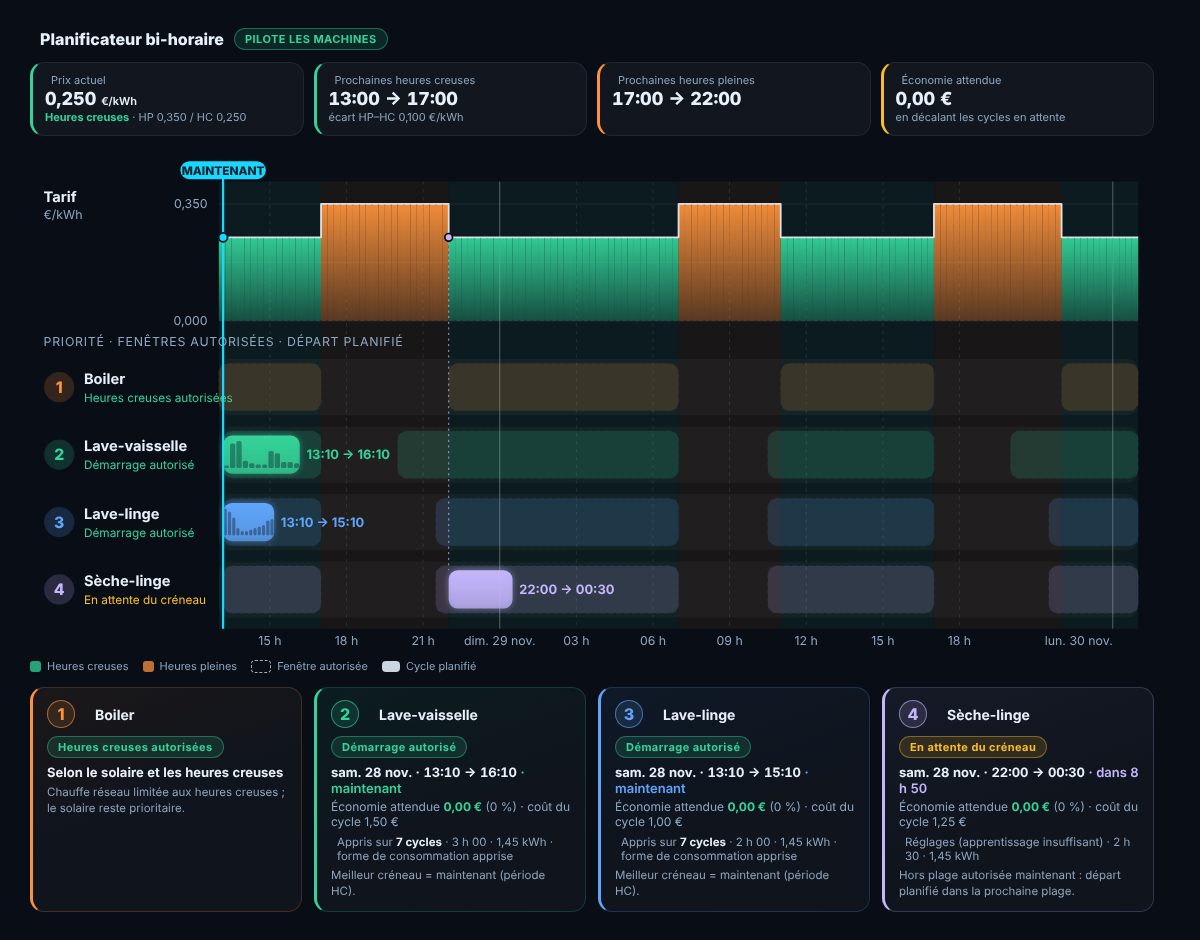
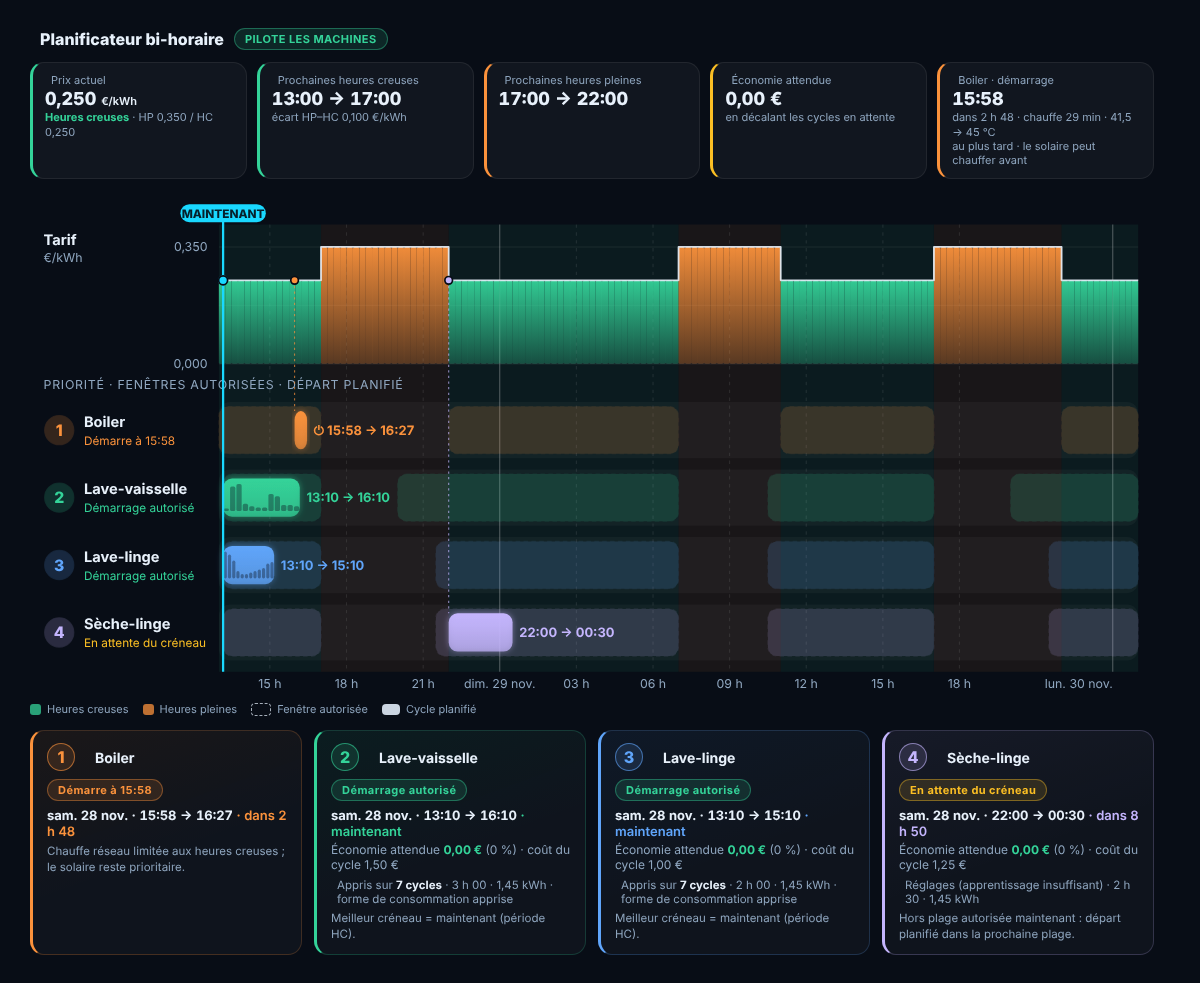
Planificateur : heure de démarrage du boiler (règle HC reproduite), tuile et libellés dans la vue
Claude-Session: https://claude.ai/code/session_01JZbpaVk4qVK5BhL6Fav4kt

diff --git a/custom_components/foxcat_energy/domain/pricing/boiler_plan.py b/custom_components/foxcat_energy/domain/pricing/boiler_plan.py
@@ -1,0 +1,120 @@
+"""Démarrage prévu du boiler en heures creuses (bi-horaire), pour la vue du planificateur.
+
+Logique pure, qui **reproduit** la règle réelle du boiler (``domain/engine/modes/eco.py`` et
+``common.ecs_last_departure``) sans la remplacer :
+
+* en heures creuses, la chauffe réseau n'est autorisée que si l'eau est sous le seuil de démarrage
+  (``boiler_temp_start_c``, 43 °C) ;
+* avec l'option « attendre le dernier failback » (active par défaut), elle ne démarre qu'au **dernier
+  moment** qui permet encore d'atteindre la température normale (45 °C) avant la fin des heures creuses,
+  moins la marge de sécurité, pour laisser sa chance au solaire ;
+* le solaire peut toujours chauffer plus tôt : l'heure rendue est donc « au plus tard ».
+
+L'eau est supposée refroidir à ``boiler_cool_rate_c_per_h`` tant qu'on ne chauffe pas.
+"""
+from __future__ import annotations
+
+from typing import Any
+
+from ..engine.modes.common import cool_rate_c_per_h, heat_rate_c_per_h
+
+HORIZON_S = 36 * 3600
+
+
+def _num(settings: dict[str, Any], key: str, default: float) -> float:
+    try:
+        return float(settings.get(key, default))
+    except (TypeError, ValueError):
+        return default
+
+
+def _heating_minutes(temp_at_end_c: float, normal_c: float, heat_rate: float) -> float:
+    return max(0.0, (normal_c - temp_at_end_c) / heat_rate * 60.0)
+
+
+def plan_boiler_hc(
+    *,
+    now_ts: int,
+    settings: dict[str, Any],
+    temp_c: float | None,
+    boiler_on: bool,
+    hc_windows: list[tuple[int, int]],
+    mode: str | None = None,
+) -> dict[str, Any]:
+    """Statut et heure de démarrage prévue du boiler sur les heures creuses."""
+    start_c = _num(settings, "boiler_temp_start_c", 43.0)
+    normal_c = _num(settings, "boiler_temp_normal_c", 45.0)
+    margin_s = max(_num(settings, "boiler_failback_margin_min", 30.0), 0.0) * 60.0
+    heat = heat_rate_c_per_h(settings)
+    cool = cool_rate_c_per_h(settings)
+    wait_failback = bool(settings.get("boiler_hc_wait_failback", True))
+    base = {
+        "start_ts": None, "end_ts": None, "heating_min": None, "temp_c": temp_c,
+        "start_temp_c": start_c, "target_c": normal_c,
+        "window_start_ts": None, "window_end_ts": None, "failback": wait_failback,
+    }
+
+    if mode == "Manuel":
+        return base | {"status": "MANUEL", "reason": "Mode Manuel : FoxCat ne commande pas le boiler."}
+    if not settings.get("boiler_enabled", True):
+        return base | {"status": "DESACTIVE", "reason": "Boiler non géré par FoxCat."}
+    if temp_c is None:
+        return base | {"status": "SONDE_INDISPONIBLE", "reason": "Température du boiler illisible : aucune chauffe prévue."}
+    if not settings.get("boiler_allow_hc", True):
+        return base | {"status": "HC_DESACTIVE", "reason": "Chauffe réseau en heures creuses désactivée : solaire seulement."}
+
+    if boiler_on and temp_c < normal_c:
+        minutes = _heating_minutes(temp_c, normal_c, heat) if heat else 0.0
+        return base | {
+            "status": "EN_COURS", "start_ts": now_ts, "end_ts": int(now_ts + minutes * 60), "heating_min": round(minutes),
+            "reason": f"Chauffe en cours : {temp_c:.1f} °C vers {normal_c:.1f} °C.",
+        }
+
+    # Instant où l'eau passe sous le seuil de démarrage (si elle refroidit).
+    if temp_c < start_c:
+        cross = now_ts
+    elif cool > 0:
+        cross = now_ts + int((temp_c - start_c) / cool * 3600)
+    else:
+        cross = None
+    if cross is None or cross > now_ts + HORIZON_S:
+        return base | {
+            "status": "AUCUN_BESOIN",
+            "reason": f"Eau à {temp_c:.1f} °C, au-dessus du seuil de démarrage ({start_c:.0f} °C) : pas de chauffe réseau prévue.",
+        }
+
+    def temp_at(t: int) -> float:
+        return temp_c - cool * max(t - now_ts, 0) / 3600.0
+
+    for ws, we in sorted(hc_windows):
+        if we <= now_ts or we <= cross:
+            continue
+        t_in = max(ws, now_ts, cross)
+        if not wait_failback:
+            start = t_in
+        else:
+            start = None
+            t = t_in
+            while t <= we:
+                projected_end = temp_at(t) - cool * (we - t) / 3600.0
+                minutes = _heating_minutes(projected_end, normal_c, heat)
+                if we - t - minutes * 60.0 - margin_s <= 0:
+                    start = t
+                    break
+                t += 60
+            if start is None:
+                start = we
+        minutes = _heating_minutes(temp_at(start), normal_c, heat)
+        end = min(int(start + minutes * 60), we)
+        immediate = start <= now_ts + 60
+        return base | {
+            "status": "MAINTENANT" if immediate else "PROGRAMME",
+            "start_ts": int(start), "end_ts": int(end), "heating_min": round(minutes),
+            "window_start_ts": int(ws), "window_end_ts": int(we),
+            "reason": (
+                f"Chauffe réseau {'immédiate' if immediate else 'au plus tard à l’heure indiquée'} : "
+                f"{temp_at(start):.1f} → {normal_c:.1f} °C en {round(minutes)} min "
+                f"(fin des heures creuses, marge {round(margin_s / 60)} min). Le solaire peut chauffer avant."
+            ),
+        }
+    return base | {"status": "AUCUNE_HC", "reason": "Aucune heure creuse exploitable sur l'horizon."}

diff --git a/tests/test_boiler_plan.py b/tests/test_boiler_plan.py
@@ -1,0 +1,99 @@
+"""Démarrage prévu du boiler en heures creuses : reproduit la règle réelle du boiler."""
+from __future__ import annotations
+
+import sys
+import types
+import unittest
+from datetime import datetime, timedelta, timezone
+from pathlib import Path
+
+COMPONENT = Path(__file__).resolve().parents[1] / "custom_components" / "foxcat_energy"
+package = types.ModuleType("foxcat_energy")
+package.__path__ = [str(COMPONENT)]
+sys.modules.setdefault("foxcat_energy", package)
+
+from foxcat_energy.const import DEFAULT_SETTINGS  # noqa: E402
+from foxcat_energy.domain.pricing.boiler_plan import plan_boiler_hc  # noqa: E402
+from foxcat_energy.domain.pricing.dynamic_planner import boiler_lane  # noqa: E402
+
+UTC = timezone.utc
+DAY = datetime(2026, 11, 28, 0, 0, tzinfo=UTC)
+SETTINGS = dict(DEFAULT_SETTINGS)
+
+
+def ts(hour, minute=0, day=0):
+    return int((DAY + timedelta(days=day, hours=hour, minutes=minute)).timestamp())
+
+
+# HC : nuit 22 h → 07 h, midi 11 h → 17 h (HP 07-11 et 17-22).
+HC = [(ts(-2), ts(7)), (ts(11), ts(17)), (ts(22), ts(7, day=1)), (ts(11, day=1), ts(17, day=1))]
+
+
+def plan(now, temp, **kw):
+    args = dict(now_ts=now, settings=SETTINGS, temp_c=temp, boiler_on=False, hc_windows=HC, mode="Éco")
+    args.update(kw)
+    return plan_boiler_hc(**args)
+
+
+class BoilerHcPlanTests(unittest.TestCase):
+    def test_cold_water_waits_for_the_last_failback_of_the_window(self):
+        result = plan(ts(5), 40.0)
+        self.assertEqual(result["status"], "PROGRAMME")
+        window_end = ts(7)
+        heating_s = result["heating_min"] * 60
+        # démarre au plus tard : durée de chauffe + marge de 30 min avant la fin des HC
+        self.assertAlmostEqual(result["start_ts"], window_end - heating_s - 30 * 60, delta=180)
+        self.assertGreater(result["start_ts"], ts(5))
+        self.assertLessEqual(result["end_ts"], window_end)
+
+    def test_failback_already_reached_starts_now(self):
+        result = plan(ts(6, 20), 38.0)
+        self.assertEqual(result["status"], "MAINTENANT")
+        self.assertLessEqual(result["start_ts"], ts(6, 20) + 60)
+
+    def test_without_waiting_option_it_starts_when_hc_open(self):
+        result = plan(ts(5), 40.0, settings=dict(SETTINGS, boiler_hc_wait_failback=False))
+        self.assertEqual(result["status"], "MAINTENANT")
+
+    def test_warm_water_starts_only_after_it_cools_below_threshold(self):
+        # 50 °C, refroidissement 0,5 °C/h : passe sous 43 °C vers 19 h → première HC exploitable = nuit 22 h
+        result = plan(ts(5), 50.0)
+        self.assertEqual(result["status"], "PROGRAMME")
+        self.assertGreaterEqual(result["start_ts"], ts(22))
+        self.assertLess(result["start_ts"], ts(7, day=1))
+
+    def test_very_hot_water_needs_no_grid_heating(self):
+        result = plan(ts(5), 62.0)
+        self.assertEqual(result["status"], "AUCUN_BESOIN")
+        self.assertIsNone(result["start_ts"])
+
+    def test_heating_in_progress(self):
+        result = plan(ts(5), 40.0, boiler_on=True)
+        self.assertEqual(result["status"], "EN_COURS")
+
+    def test_hc_disabled_manual_and_sensor_missing(self):
+        self.assertEqual(plan(ts(5), 40.0, settings=dict(SETTINGS, boiler_allow_hc=False))["status"], "HC_DESACTIVE")
+        self.assertEqual(plan(ts(5), 40.0, mode="Manuel")["status"], "MANUEL")
+        self.assertEqual(plan(ts(5), None)["status"], "SONDE_INDISPONIBLE")
+        self.assertEqual(plan(ts(5), 40.0, settings=dict(SETTINGS, boiler_enabled=False))["status"], "DESACTIVE")
+
+    def test_lane_carries_schedule(self):
+        schedule = plan(ts(5), 40.0)
+        lane = boiler_lane(None, [[ts(-2), ts(7)]], source="HEURES_CREUSES", schedule=schedule)
+        self.assertEqual(lane["start_ts"], schedule["start_ts"])
+        self.assertEqual(lane["status"], "PROGRAMME")
+        self.assertEqual(lane["segments"], [[schedule["start_ts"], schedule["end_ts"]]])
+        self.assertEqual(lane["priority_rank"], 1)
+
+    def test_lane_from_flexible_planner_segments(self):
+        lane = boiler_lane(
+            {"decision": "WAIT", "segments": [{"start": "2026-11-28T01:00:00+00:00", "end": "2026-11-28T02:00:00+00:00"}]},
+            None, source="PLANIFICATEUR_CHARGES", heating_min=50,
+        )
+        self.assertEqual(lane["status"], "PROGRAMME")
+        self.assertEqual(lane["start_ts"], ts(1))
+        self.assertEqual(lane["heating_min"], 50)
+
+
+if __name__ == "__main__":
+    unittest.main()

diff --git a/custom_components/foxcat_energy/domain/pricing/dynamic_planner.py b/custom_components/foxcat_energy/domain/pricing/dynamic_planner.py
@@ -348,11 +348,14 @@ def boiler_lane(
     windows: list[list[int]] | None = None,
     *,
     source: str,
+    schedule: dict[str, Any] | None = None,
+    heating_min: float | None = None,
 ) -> dict[str, Any]:
-    """Couloir du boiler (rang 1) pour la vue : informatif, la décision reste celle du boiler dynamique.
+    """Couloir du boiler (rang 1) pour la vue : informatif, la décision reste celle du boiler.
 
-    ``windows`` : plages où la chauffe est permise (``None`` = à toute heure). Les segments viennent du
-    planificateur de charges flexibles (créneaux les moins chers) quand il en fournit.
+    ``windows`` : plages où la chauffe est permise (``None`` = à toute heure). ``schedule`` : démarrage
+    prévu calculé par ``boiler_plan.plan_boiler_hc`` (bi-horaire). Sans lui, les segments viennent du
+    planificateur de charges flexibles (créneaux les moins chers) et le premier donne l'heure de départ.
     """
     plan = boiler_plan or {}
     segments = []
@@ -364,7 +367,7 @@ def boiler_lane(
             ])
         except (KeyError, TypeError, ValueError):
             continue
-    return {
+    lane: dict[str, Any] = {
         "name": "Boiler",
         "priority_rank": 1,
         "decision": plan.get("decision"),
@@ -372,7 +375,24 @@ def boiler_lane(
         "windows": windows,
         "segments": segments,
         "source": source,
+        "status": None,
+        "start_ts": None,
+        "end_ts": None,
+        "heating_min": heating_min,
     }
+    if schedule:
+        lane.update(
+            status=schedule.get("status"), reason=schedule.get("reason"), start_ts=schedule.get("start_ts"),
+            end_ts=schedule.get("end_ts"), heating_min=schedule.get("heating_min"), temp_c=schedule.get("temp_c"),
+            target_c=schedule.get("target_c"), start_temp_c=schedule.get("start_temp_c"),
+        )
+        lane["segments"] = (
+            [[schedule["start_ts"], schedule["end_ts"]]] if schedule.get("start_ts") and schedule.get("end_ts") else []
+        )
+    elif segments:
+        lane.update(status="PROGRAMME" if plan.get("decision") != "START_NOW" else "MAINTENANT",
+                    start_ts=segments[0][0], end_ts=segments[-1][1])
+    return lane
 
 
 def _machine_entry(machine: MachineDefinition, decision: str, allow: bool, reason: str, **extra: Any) -> dict[str, Any]:

diff --git a/custom_components/foxcat_energy/runtime/coordinator.py b/custom_components/foxcat_energy/runtime/coordinator.py
@@ -216,6 +216,7 @@ from ..domain.pricing import price_buffer
 from ..domain.loads.flexible_load_planner import build_flexible_load_plan
 from ..domain.pricing.dynamic_planner import boiler_lane, build_dynamic_plan
 from ..domain.pricing.bihoraire_planner import build_bihoraire_plan
+from ..domain.pricing.boiler_plan import plan_boiler_hc
 from ..trading.vpp import evaluate_trade, evaluate_v2h
 from ..dashboard.dashboard import cached_dashboard_status, refresh_dashboard_cache
 
@@ -2307,7 +2308,10 @@ class FoxCatEnergyCoordinator(DataUpdateCoordinator[dict[str, Any]]):
             tomorrow_available=tomorrow_available,
         )
         if dynamic_plan.get("ready"):
-            dynamic_plan["boiler"] = boiler_lane(planner.get("boiler"), None, source="PLANIFICATEUR_CHARGES")
+            dynamic_plan["boiler"] = boiler_lane(
+                planner.get("boiler"), None, source="PLANIFICATEUR_CHARGES",
+                heating_min=(boiler_thermal or {}).get("heating_duration_h") and round(float(boiler_thermal["heating_duration_h"]) * 60),
+            )
         dynamic_plan["pilot"] = bool(
             dynamic_plan.get("active")
             and dynamic_plan.get("ready")
@@ -2344,7 +2348,18 @@ class FoxCatEnergyCoordinator(DataUpdateCoordinator[dict[str, Any]]):
                 if self.settings.get("boiler_allow_hc", True)
                 else []
             )
-            bihoraire_plan["boiler"] = boiler_lane(None, hc_windows, source="HEURES_CREUSES")
+            hc_ranges = [
+                (int(p["start_ts"]), int(p["end_ts"])) for p in bihoraire_plan.get("periods", []) if p["period"] == "HC"
+            ]
+            boiler_schedule = plan_boiler_hc(
+                now_ts=int(now.timestamp()),
+                settings=self.settings,
+                temp_c=snap.boiler_temp_c if getattr(snap, "boiler_temp_c", None) is not None else None,
+                boiler_on=bool(snap.boiler_on),
+                hc_windows=hc_ranges,
+                mode=str(self.settings.get("mode")),
+            )
+            bihoraire_plan["boiler"] = boiler_lane(None, hc_windows, source="HEURES_CREUSES", schedule=boiler_schedule)
         bihoraire_plan["pilot"] = bool(
             bihoraire_plan.get("ready")
             and str(self.settings.get("mode")) != MODE_MANUAL

diff --git a/CHANGELOG.md b/CHANGELOG.md
@@ -2,6 +2,8 @@
 
 ## Non publié
 
+- **Planificateur : démarrage du boiler visible.** Nouveau module `domain/pricing/boiler_plan.py` (`plan_boiler_hc`) qui **reproduit la règle réelle du boiler en heures creuses** sans la remplacer : chauffe réseau seulement si l'eau est sous le seuil de démarrage (43 °C), au **dernier failback** (fin des HC moins la durée de chauffe et la marge de 30 min) quand « Boiler : attendre le dernier failback en HC » est actif, immédiatement sinon ; l'eau est supposée refroidir à la vitesse réglée. Statuts : `PROGRAMME` (heure de démarrage « au plus tard »), `MAINTENANT`, `EN_COURS`, `AUCUN_BESOIN` (eau assez chaude), `HC_DESACTIVE`, `MANUEL`, `DESACTIVE`, `SONDE_INDISPONIBLE`, `AUCUNE_HC`. Le solaire peut toujours chauffer plus tôt. Le couloir `boiler` des deux planificateurs expose `status`, `start_ts`, `end_ts`, `heating_min`, `temp_c`, `target_c` ; en dynamique, le départ vient du premier créneau retenu par le planificateur de charges (indicatif). La vue affiche une tuile « Boiler · démarrage » (heure, compte à rebours, durée, température), la barre du boiler préfixée ⏻ et le libellé « Démarre à HH:MM ». Tests : `tests/test_boiler_plan.py`. Vérifié par tests unitaires, **pas dans Home Assistant**.
+
 - **Vue Planificateur : visuel amélioré** (dashboards tablette et mobile 1.9.0). Tuiles d'indicateurs à liseré coloré avec icônes ; courbe de tarif en barres à dégradé, repères de prix à trois niveaux, étiquettes **▼ prix minimum / ▲ prix maximum** avec leur heure (dynamique, tablette) ; **info-bulle** au survol de chaque créneau (heure, prix, bande) et de chaque cycle (heures, durée) ; barres de cycle à dégradé avec halo et durée affichée ; **connecteur pointillé** reliant le départ de chaque cycle au prix de la courbe à cet instant ; point pulsant sur la courbe à l'heure actuelle ; cartes par appareil avec liseré, dégradé et **compte à rebours** (« dans 10 h 50 », « maintenant », « cycle en cours »). Sur téléphone, les repères min/max sont masqués et l'axe n'affiche que minuit et midi pour rester lisible. Le code est le même dans `dashboard_v1.9.0.yaml` et `dashboard_mobile_v1.9.0.yaml` (une version déjà installée garde l'ancien visuel tant qu'on ne la régénère pas). Aperçus mis à jour dans `docs/PREVIEW_PLANIFICATEUR_*.png` ; rendu vérifié dans un navigateur de test, **pas dans Home Assistant**.
 
 ## V1.7.701

diff --git a/docs/algorithmes/07_machines_planificateur.md b/docs/algorithmes/07_machines_planificateur.md
@@ -151,6 +151,8 @@ Calculé à chaque trame en **tarif dynamique** ; sans l'interrupteur, il reste 
 
 **Machine Learning dans le planificateur.** La durée et la puissance moyenne viennent des 10 derniers cycles appris, à partir de 3 cycles mesurés (sinon réglages). La **forme de consommation** (12 tranches, part d'énergie par tranche, `profile_shape_10`) pondère le coût : chaque tranche est payée au prix de son créneau, ce qui place les pics de la machine (chauffe, essorage) sur les créneaux les moins chers. Attributs exposés : `energy_kwh`, `energy_source`, `learning_cycles`, `profile`.
 
+**Démarrage du boiler affiché** (`domain/pricing/boiler_plan.py`). En bi-horaire, la vue montre l'heure à laquelle le boiler démarrera sur le réseau en heures creuses, calculée comme la règle réelle (`eco.py`, `ecs_last_departure`) : sous le seuil de démarrage, au dernier failback (fin des HC − durée de chauffe − marge), le solaire pouvant chauffer plus tôt. En dynamique, c'est le premier créneau retenu par le planificateur de charges (indicatif). La décision réelle reste celle du boiler.
+
 Hypothèses à connaître : la part solaire future est une estimation prudente, pas une prévision de puissance ; le boiler n'est pas planifié ici.
 
 ## 7. Planificateur bi-horaire (`build_bihoraire_plan`)
